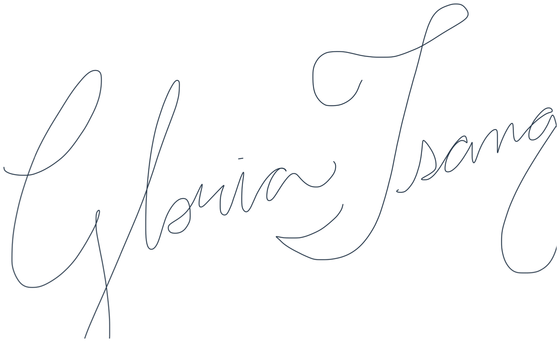
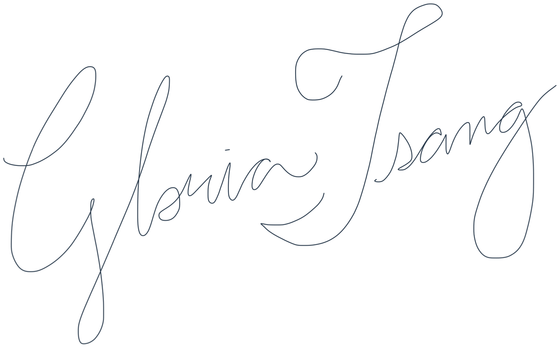
Letter: 'Everything here…' moved after 'So I started SGYN.'; corrected signature (full descender), smaller at 180px
Claude-Session: https://claude.ai/code/session_017kR9XF2PVfNF7WQ8meNjQi

diff --git a/index.html b/index.html
@@ -272,11 +272,11 @@
     <p>Of those three perspectives, the last has taught me the most about what actually sustains people-to-people ties.</p>
     <p>I kept meeting young people genuinely curious about the other side, even when that curiosity came with assumptions shaped by geographic distance, media headlines, and limited exposure. Yet this was precisely where I saw the fewest opportunities. For the generation that will eventually build and inherit the future of Sino-Gulf relations, meaningful engagement too often came through formal channels, rather than collective spaces we had built ourselves and had real agency over.</p>
     <p>So I started SGYN.</p>
+    <p>Everything here is still built by young leaders who care enough to make it happen.</p>
     <p>My goal was simple: that young people in China and the Gulf would no longer have to learn about each other only through headlines. I wanted us to have a community where young people could engage with China–Gulf relations outside the usual formalities: not only across conference tables or through institutions, but over meals, through language, in honest conversations, and eventually through friendships and opportunities that continue long after an event ends.</p>
     <p>Since then, I&rsquo;ve watched members teach each other phrases, debate ideas, share stages, travel across cities, and open doors for one another around the world. That, more than anything, has been the greatest reward of this work — watching SGYN become what I hoped it could be.</p>
-    <p>Everything here is still built by young leaders who care enough to make it happen.</p>
     <p><span class="lhl">This network belongs to all the young people who have a stake in what the Sino-Gulf relationship becomes next.</span></p>
-    <img class="lsig-img" src="assets/gloria-signature.webp" alt="Gloria Tsang&rsquo;s signature"/>
+    <img class="lsig-img" src="assets/gloria-signature.webp?v=2" alt="Gloria Tsang&rsquo;s signature"/>
     <p class="lrole">Founder &amp; Executive Director, Sino-Gulf Youth Network</p>
   </div>
 </div>

diff --git a/css/main.css b/css/main.css
@@ -290,7 +290,7 @@ section.fnote-grey{padding:0}
 /* closing line: gold highlighter draws behind it as the letter opens */
 .letter .lhl{font-weight:600;color:var(--navy-ink);background-image:linear-gradient(rgba(214,173,100,.38),rgba(214,173,100,.38));background-repeat:no-repeat;background-position:0 78%;background-size:0% .5em;-webkit-box-decoration-break:clone;box-decoration-break:clone;transition:background-size 1.1s cubic-bezier(.25,.7,.3,1) .55s}
 .lveil.open .letter .lhl{background-size:100% .5em}
-.letter .lsig-img{display:block;width:min(250px,64%);height:auto;margin-top:26px}
+.letter .lsig-img{display:block;width:min(180px,52%);height:auto;margin-top:24px}
 @media (prefers-reduced-motion: reduce){.letter .lhl{transition:none;background-size:100% .5em}}
 .letter .lrole{font-size:13.5px;color:var(--mut);margin-top:10px}
 .letter .lclose{position:absolute;top:10px;right:12px;background:none;border:0;font-size:19px;color:var(--mut);cursor:pointer;padding:8px;line-height:1}
